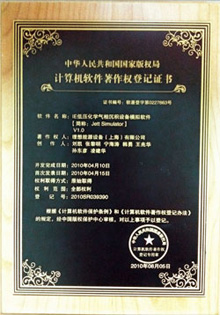
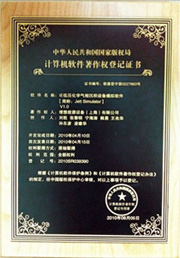
ip

diff --git a/public/stylesheets/idea.css b/public/stylesheets/idea.css
@@ -76,6 +76,8 @@ ul.normal li { list-style:square outside; margin-left:12px; }
 .imgintext02 { width:200px; margin:10px 20px 20px 20px; float:left; padding:5px; text-align:center; background-color:white; line-height:16px; border-bottom:2px solid #cbc9bd; border-right:2px solid #cbc9bd; border-top:1px solid #ebe8d7; border-left:1px solid #ebe8d7; display:inline;}
 .righttitle03 { line-height:26px; margin-left:12px; +margin-left:0px;
 _margin-left:0px; color:#999; }
+.imgintext02a { width:190px; margin:10px 5px 20px 5px; float:left; padding:5px; text-align:center; background-color:white; line-height:16px; border-bottom:2px solid #cbc9bd; border-right:2px solid #cbc9bd; border-top:1px solid #ebe8d7; border-left:1px solid #ebe8d7; display:inline;}
+.imgintext02b { width:190px; margin:10px 5px 0px 5px; float:left; padding:5px; text-align:center; background-color:white; line-height:16px; border-bottom:2px solid #cbc9bd; border-right:2px solid #cbc9bd; border-top:1px solid #ebe8d7; border-left:1px solid #ebe8d7; display:inline;}
 .imgcentered { clear:both; margin:auto; padding:5px; border-bottom:2px solid #cbc9bd; border-right:2px solid #cbc9bd; border-top:1px solid #ebe8d7; border-left:1px solid #ebe8d7; text-align:center; background-color:white; }
 .rmtable { line-height:24px; text-align:center; background:#dfd9c3; margin:20px 0px 0 25px;}
 .rmtable01 { background:#dfd9c3; margin:20px 0px 0 0px; height:41px; background:url(/imagesformbg.jpg) ;}

diff --git a/public/html/ip.html b/public/html/ip.html
@@ -155,11 +155,16 @@
         </span><span><img src="/images/2j04.jpg" /></span></div>
       <div class="right">
         <p>理想能源设备（上海）有限公司目前已获得多项软件著作权登记和近三十项正在申请授权及已获得授权的技术专利。 </p>
-        <div class="imgintext02" style="width:230px;"><img src="/images/ip01.jpg" /><br />
+        <div class="imgintext02a" ><img src="/images/ip01.jpg" /><br />
           IE低压化学气相沉积设备模拟器</div>
-        <div class="imgintext02" style="width:310px;"><img src="/images/ip02.jpg" /><br />
+          <div class="imgintext02a"><img src="/images/ip03.jpg" /><br />
+          理想LPCVD控制软件</div>
+        <div class="imgintext02b"><img src="/images/ip02.jpg" /><br />
           LPCVD软件登记证书</div>
-      </div>
+
+       <div class="imgintext02b"><img src="/images/ip04.jpg" /><br />
+         理想等离子增强化学气相沉积设备控制软件</div>
+</div>
       <div class="blank0"></div>
     </div>
     <div class="footer">
